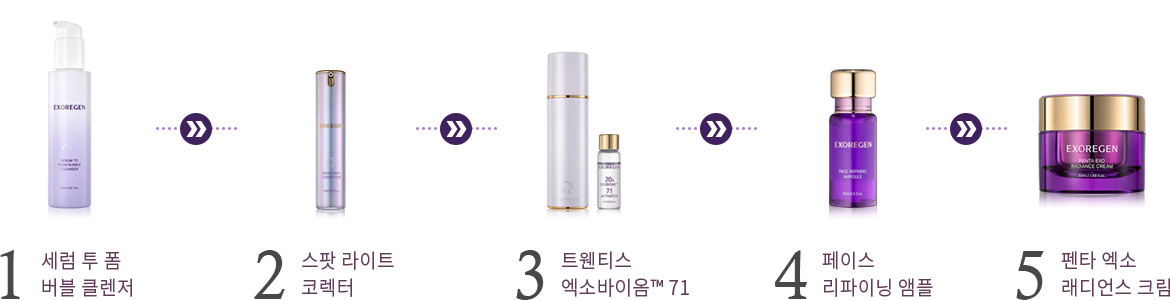
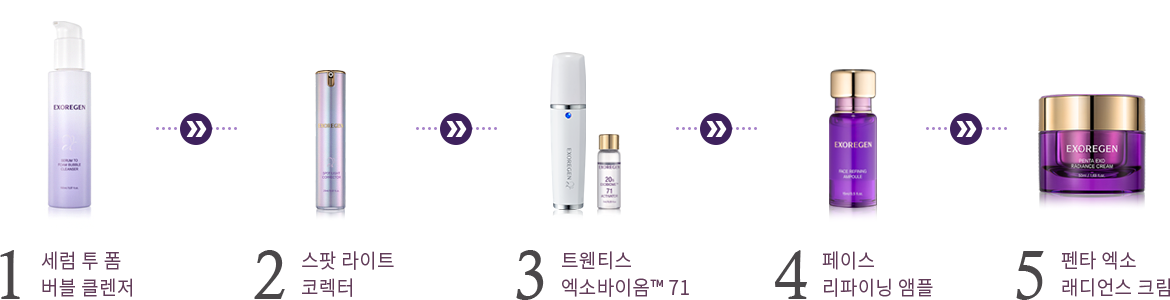
[PC/스킨케어순서] 트웬티스 엑소바이옴 미스트 제품 모델 변경건 관련 수정 작업

Changed region(s): [[0.4615, 0.18, 0.5231, 0.72]]

diff --git a/howtouse02.html b/howtouse02.html
@@ -343,7 +343,7 @@
                             </span>
                         </p>
                         <div class="cont-img">
-                            <img src="/img_/howtouse/htu-2.png?ver=221230" alt="">
+                            <img src="/img_/howtouse/htu-2.png?ver=230201" alt="">
                         </div>
                     </div>
 
@@ -355,7 +355,7 @@
                             </span>
                         </p>
                         <div class="cont-img">
-                            <img src="/img_/howtouse/htu-3.png?ver=221230" alt="">
+                            <img src="/img_/howtouse/htu-3.png?ver=230201" alt="">
                         </div>
                     </div>
 
@@ -378,7 +378,7 @@
                             </span>
                         </p>
                         <div class="cont-img"> 
-                            <img src="/img_/howtouse/htu-5.png?ver=221230" alt="">
+                            <img src="/img_/howtouse/htu-5.png?ver=230201" alt="">
                         </div>
                     </div>
                 </div>
